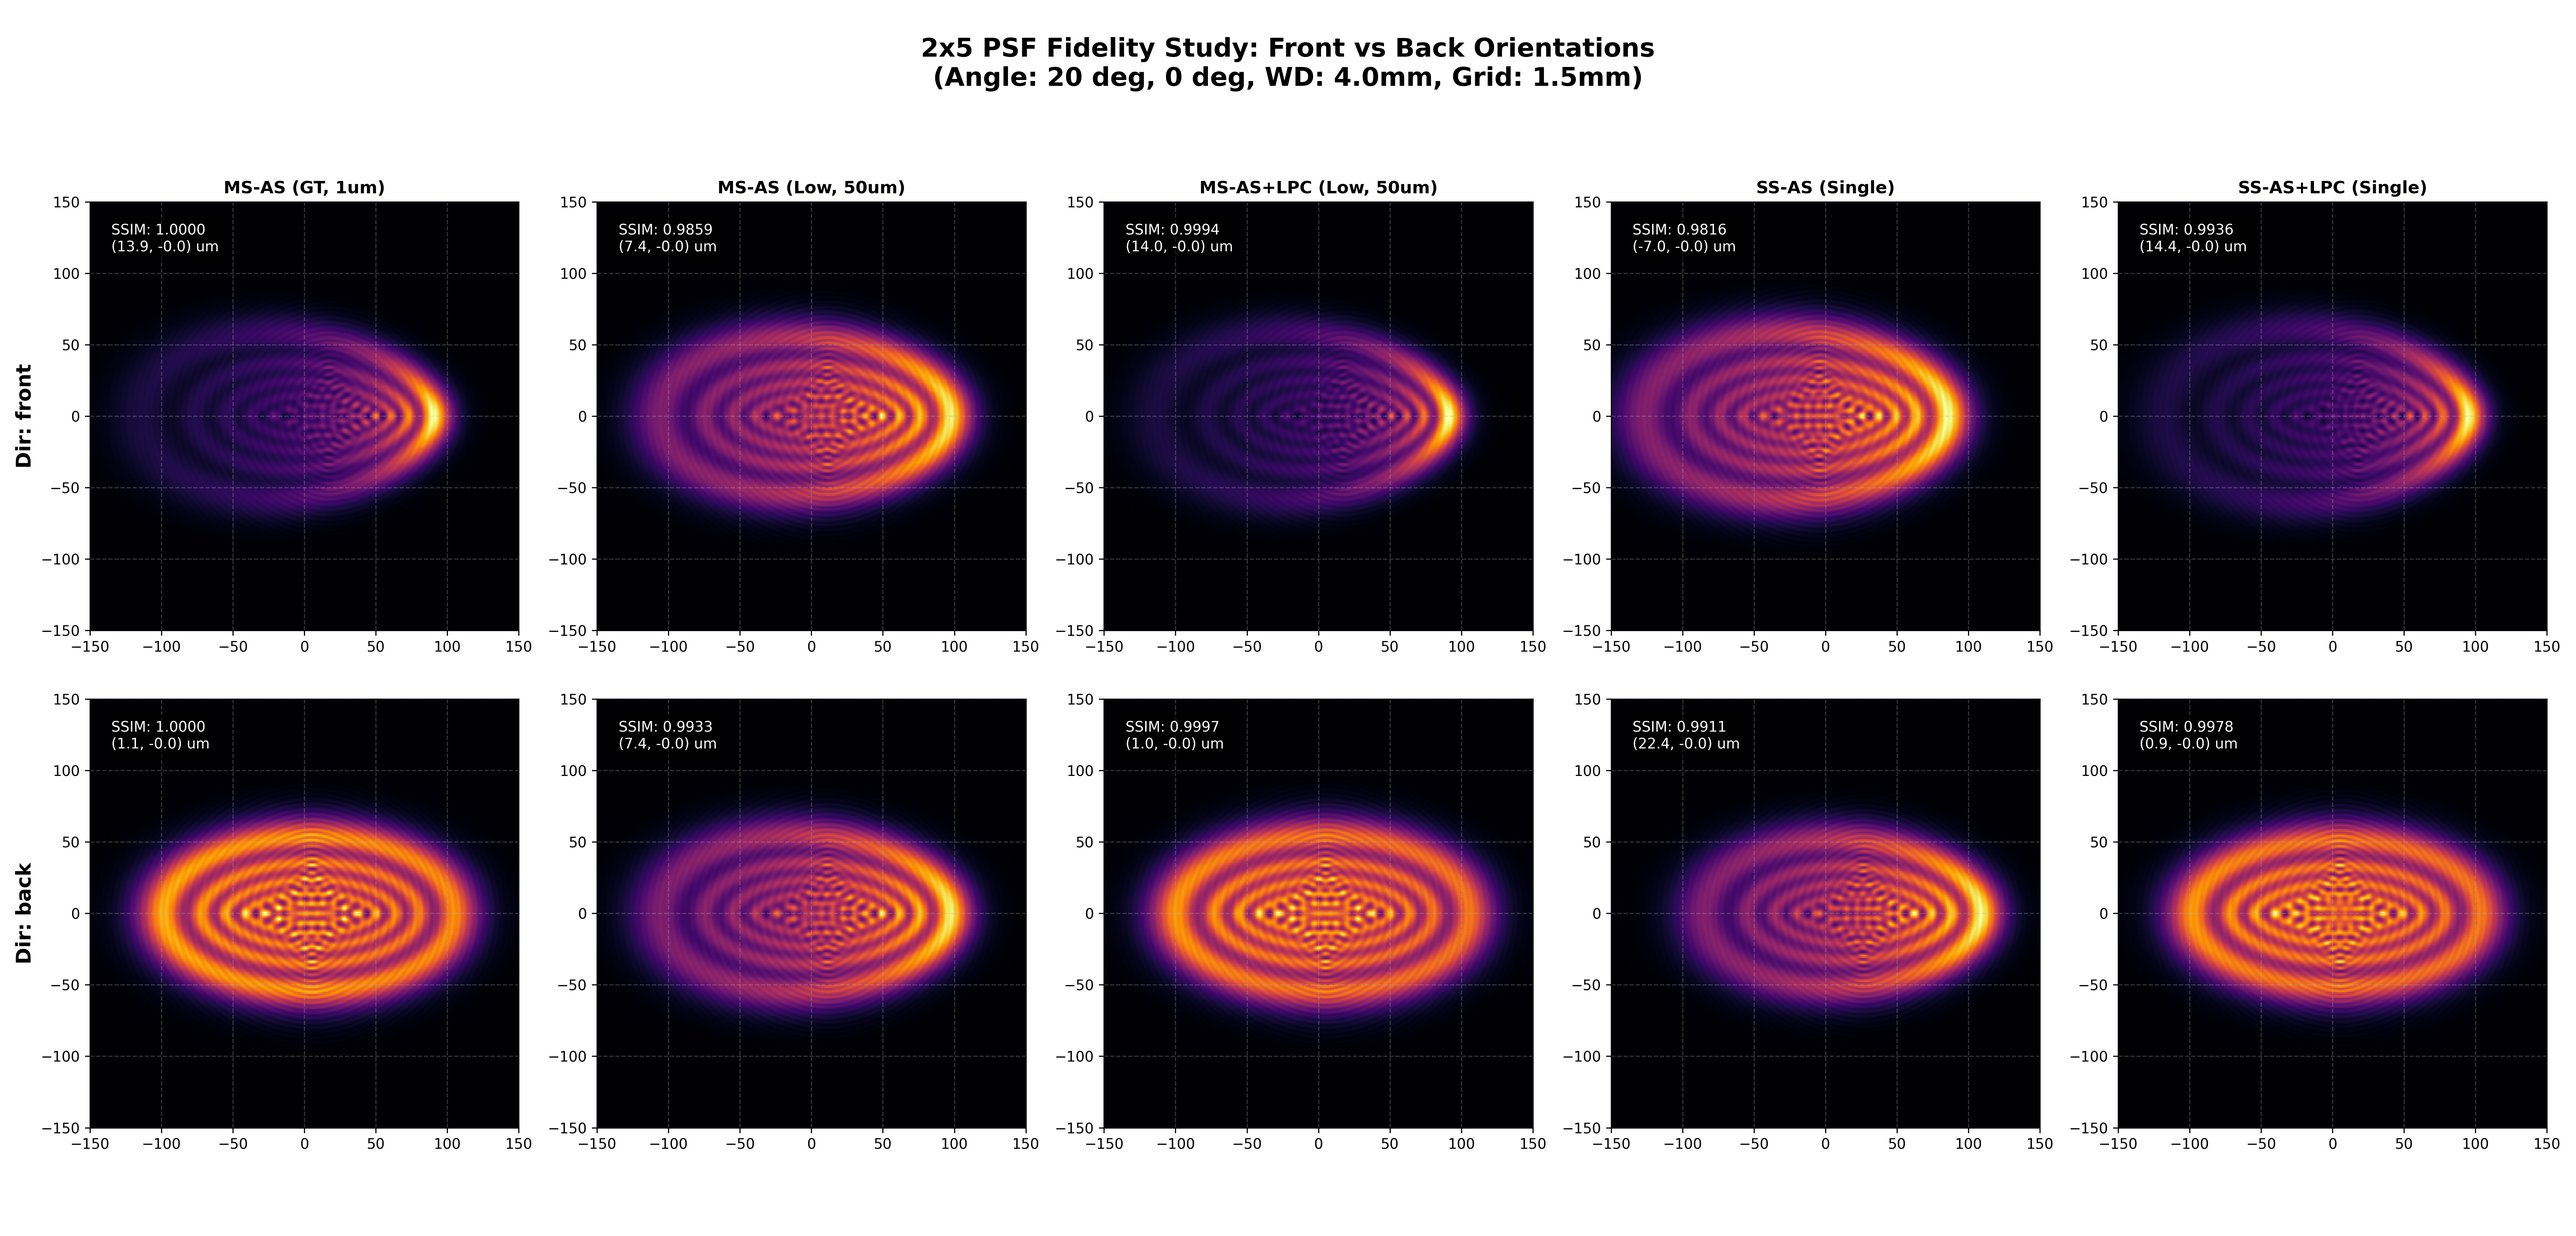
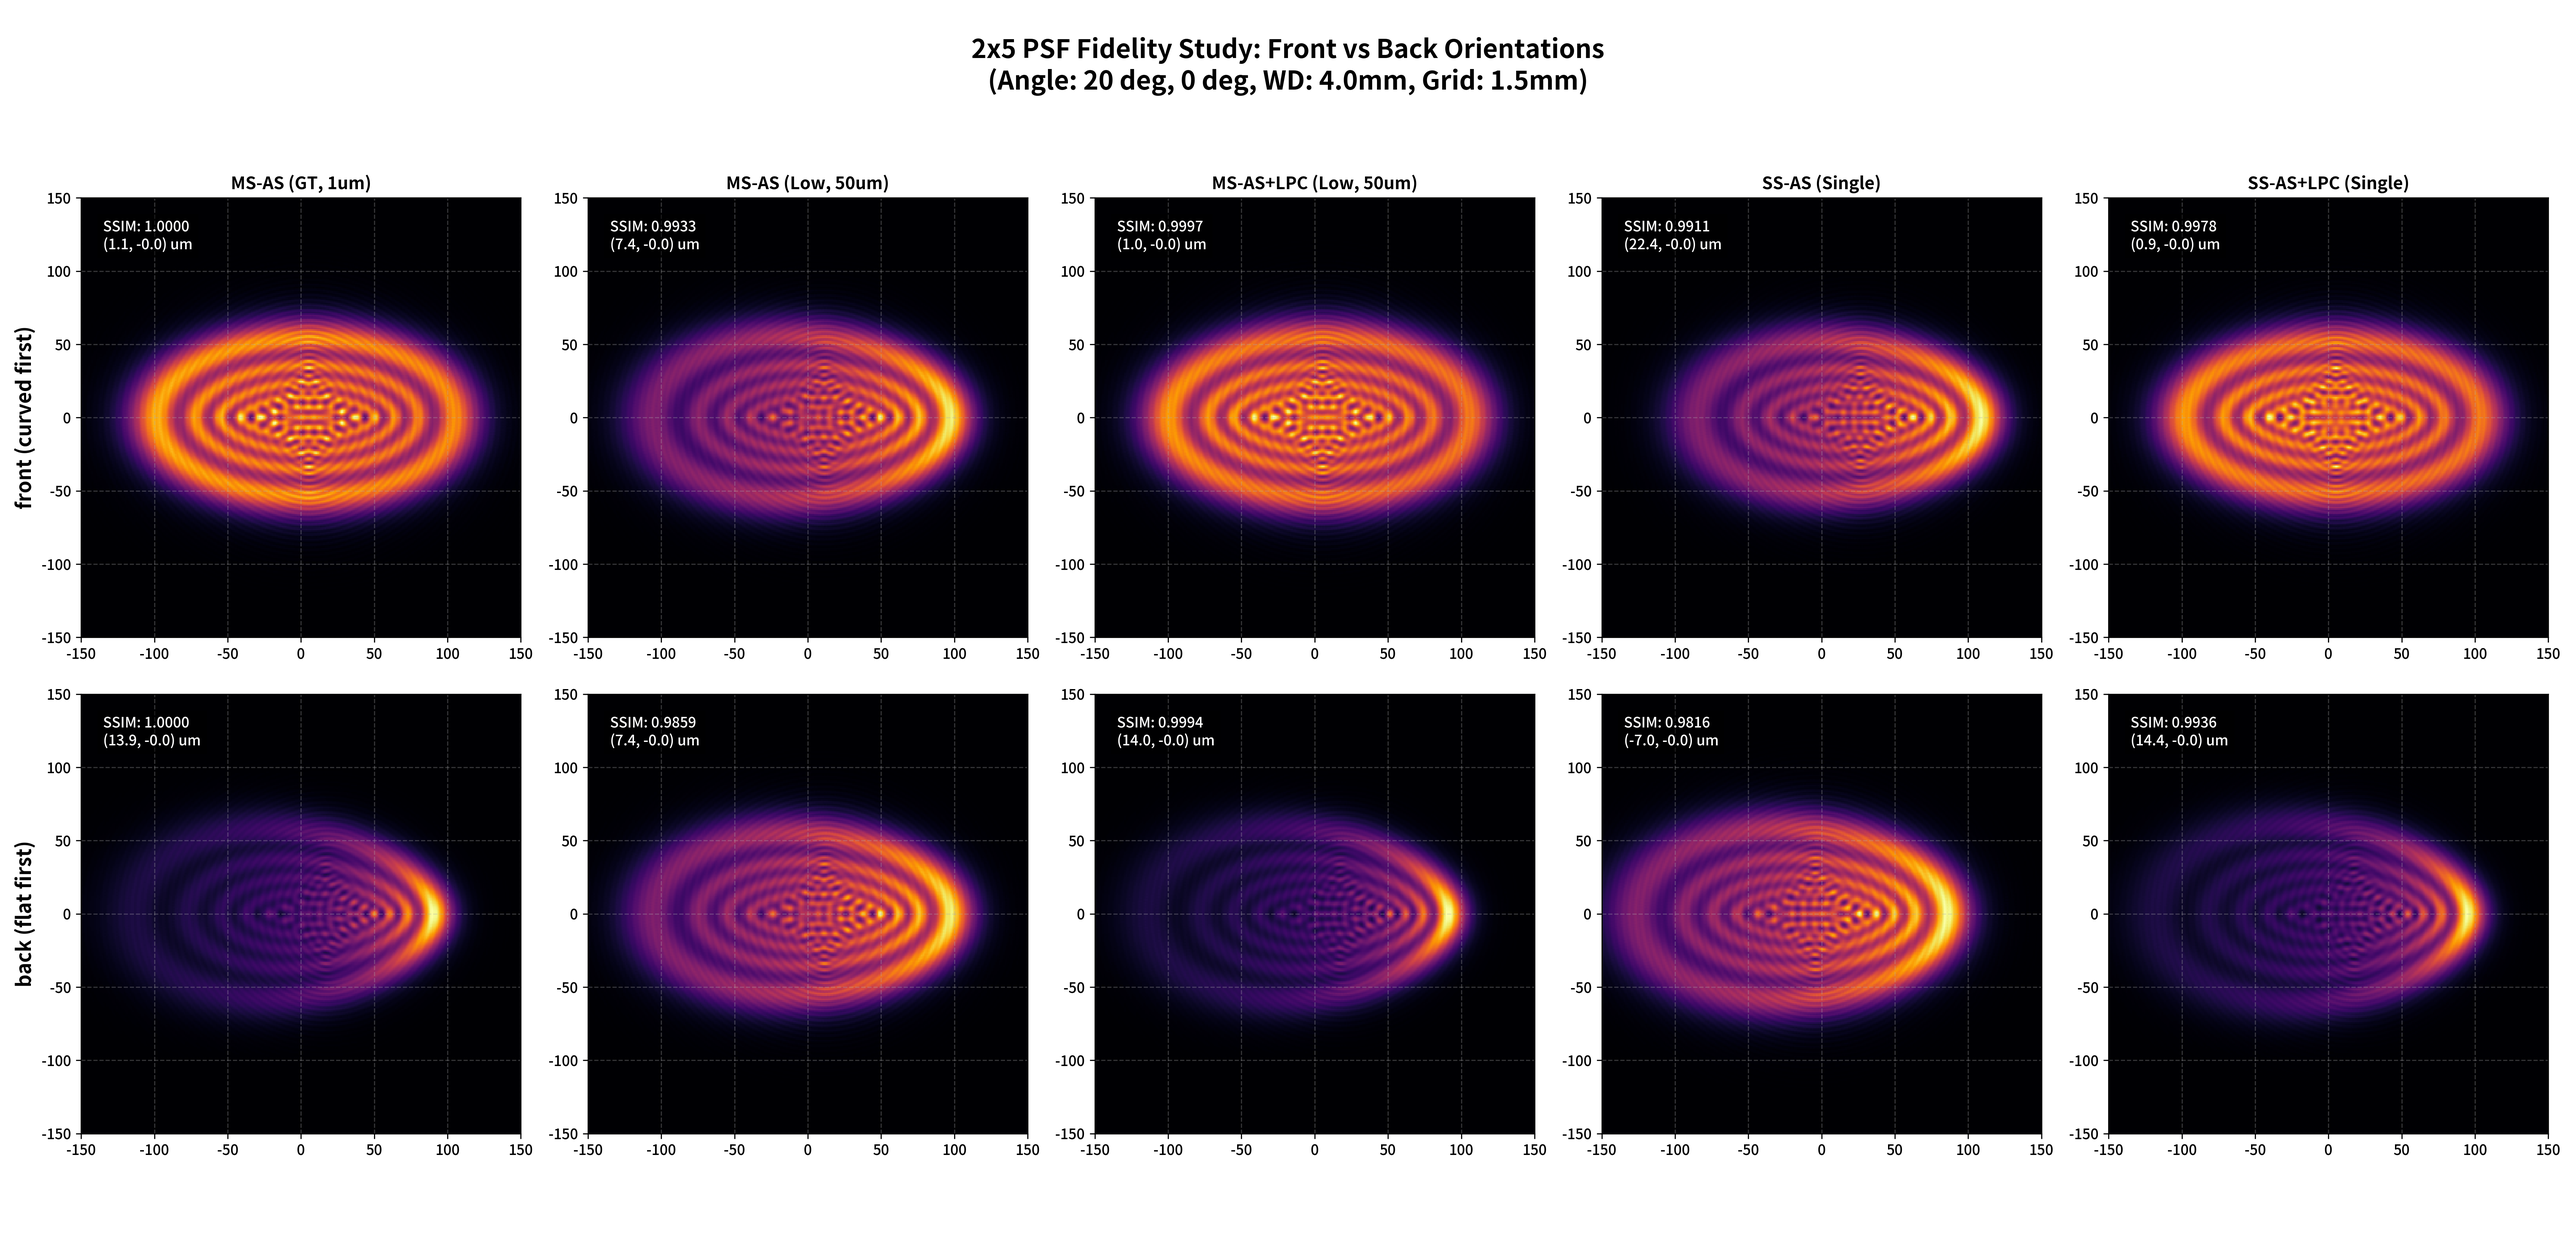
Make 'front' mean curved first in both engines
The README describes 'front' as curved first and 'back' as flat first, but
the heightmap is the thickness from the flat base, so heightmap_slicer
started 'front' at the base slice: the code modelled 'front' as flat first.
A direct field-overlap check on the demo lens (overlap 1.0000 vs 0.91 for
crossed pairs) and the ray-traced focus confirmed the swap.

The engines now follow the README: slice order, mask/propagation order and
the LPC skew sign are swapped together through is_curved_first(), which
also rejects unknown labels. The change is a pure relabel; the new test
checks new('front') == old('back') and vice versa to 1e-6 against the
pre-fix module from git history. The results figure is regenerated (rows
swap, values unchanged), and the README records the convention change, the
validated curvature regime of the single slice, and known limitations.

Changed region(s): [[0.0, 0.1244, 0.9984, 0.5289], [0.0, 0.56, 0.9984, 0.9333], [0.3432, 0.0311, 0.6552, 0.0933]]

diff --git a/optical_demo_utils.py b/optical_demo_utils.py
@@ -42,6 +42,22 @@ def get_asm_kernel(FX, FY, wavelength, dz, n, x_rad=0.0, y_rad=0.0):
     
     return mask * torch.exp(1j * kz * dz)
 
+def is_curved_first(heightmapDirection):
+    """
+    Map the lens orientation label to the physical surface order.
+
+    'front': the curved surface faces the incident light (curved first).
+    'back' : the flat base faces the incident light (flat first).
+
+    The heightmap is the material thickness measured from the flat base, so
+    'front' starts at the apex slice and 'back' starts at the base slice.
+    Before 2026-11-13 the code used the opposite assignment (see README).
+    """
+    direction = str(heightmapDirection).lower()
+    if direction not in ('front', 'back'):
+        raise ValueError(f"heightmapDirection must be 'front' or 'back', got {heightmapDirection!r}")
+    return direction == 'front'
+
 def hard_stable_bounded_clip(x, lower, upper):
     """Hard clipping for slicing stability."""
     max_val = (upper - lower)
@@ -58,7 +74,8 @@ def heightmap_slicer(heightmap, dz_mask, slice_idx, heightmapDirection='front', 
     numSlices = int(torch.ceil(torch.as_tensor(axial_thickness / dz_mask)).item())
     dz_last = axial_thickness - (numSlices - 1) * dz_mask
 
-    idx = slice_idx if heightmapDirection.lower() in ['front'] else numSlices - 1 - slice_idx
+    # Curved first: start at the apex (top) slice; flat first: start at the base slice.
+    idx = numSlices - 1 - slice_idx if is_curved_first(heightmapDirection) else slice_idx
 
     z_start = idx * dz_mask
     z_actual = dz_mask if idx < numSlices - 1 else dz_last
@@ -104,10 +121,10 @@ def local_phase_correction(XX, YY, heightmap, skewXRad_array, skewYRad_array, pi
 
     hm = heightmap.to(device)
     heightmap_batch = hm.view(1, 1, H, W).expand(B, C, H, W)
-    if heightmapDirection.lower() in ['front']:
-        skewX, skewY = -skewXRad_array, -skewYRad_array
-    else:
+    if is_curved_first(heightmapDirection):
         skewX, skewY = skewXRad_array, skewYRad_array
+    else:
+        skewX, skewY = -skewXRad_array, -skewYRad_array
 
     eff_h = (heightmap_batch)
 
@@ -185,6 +202,7 @@ def ms_as_engine(field, h_map, dz_val, k0, n_mat, n_bkgd, FX, FY, XX, YY, px_siz
     device = field.device
     B, C, H, W = field.shape
     wavelength = 2 * torch.pi / k0
+    curved_first = is_curved_first(heightmapDirection)
     
     x_rad = angle_params.get('x_rad', 0.0) if angle_params else 0.0
     y_rad = angle_params.get('y_rad', 0.0) if angle_params else 0.0
@@ -212,18 +230,18 @@ def ms_as_engine(field, h_map, dz_val, k0, n_mat, n_bkgd, FX, FY, XX, YY, px_siz
             
         opd = global_phase_correction(x_rad, y_rad, n_mat, n_bkgd, h_lpc)
         
-        if heightmapDirection.lower() in ['front']:
+        if curved_first:
+            if abs(dz_eff - dz_val) < 1e-12:
+                for _ in range(num_sub): curr_field = propagate_with_cached_kernel(curr_field, H_sub)
+            else:
+                curr_field = propagate(curr_field, wavelength, dz_eff, n_mat, FX, FY, px_size, x_rad=x_rad, y_rad=y_rad)
+            curr_field = curr_field * torch.exp(1j * k0 * opd)
+        else:
             curr_field = curr_field * torch.exp(1j * k0 * opd)
             if abs(dz_eff - dz_val) < 1e-12:
                 for _ in range(num_sub): curr_field = propagate_with_cached_kernel(curr_field, H_sub)
             else:
                 curr_field = propagate(curr_field, wavelength, dz_eff, n_mat, FX, FY, px_size, x_rad=x_rad, y_rad=y_rad)
-        else:
-            if abs(dz_eff - dz_val) < 1e-12:
-                for _ in range(num_sub): curr_field = propagate_with_cached_kernel(curr_field, H_sub)
-            else:
-                curr_field = propagate(curr_field, wavelength, dz_eff, n_mat, FX, FY, px_size, x_rad=x_rad, y_rad=y_rad)
-            curr_field = curr_field * torch.exp(1j * k0 * opd)               
    
     return curr_field
 
@@ -251,12 +269,12 @@ def ss_as_engine(field, h_map, k0, n_mat, n_bkgd, FX, FY, XX, YY, px_size, heigh
     opd = global_phase_correction(x_rad, y_rad, n_mat, n_bkgd, h_lpc)
     mask = torch.exp(1j * k0 * opd)
 
-    if heightmapDirection.lower() in ['front']:
-        curr_field = curr_field * mask
+    if is_curved_first(heightmapDirection):
         curr_field = propagate(curr_field, wavelength, thickness, n_mat, FX, FY, px_size, x_rad=x_rad, y_rad=y_rad)
+        curr_field = curr_field * mask
     else:
-        curr_field = propagate(curr_field, wavelength, thickness, n_mat, FX, FY, px_size, x_rad=x_rad, y_rad=y_rad)
         curr_field = curr_field * mask
+        curr_field = propagate(curr_field, wavelength, thickness, n_mat, FX, FY, px_size, x_rad=x_rad, y_rad=y_rad)
         
     return curr_field
 

diff --git a/tests/test_front_back_labels.py b/tests/test_front_back_labels.py
@@ -1,0 +1,87 @@
+"""Check the 2026-11-13 front/back convention fix.
+
+'front' must mean curved first and 'back' flat first. The fix is a pure
+relabel: the new 'front' reproduces the pre-fix 'back' exactly and vice versa.
+The pre-fix module is read from git (commit 795e325); that part is skipped
+when git or the commit is unavailable.
+
+Run: python -m pytest tests/test_front_back_labels.py
+"""
+import importlib.util
+import subprocess
+import sys
+from pathlib import Path
+
+import numpy as np
+import pytest
+import torch
+
+ROOT = Path(__file__).resolve().parents[1]
+sys.path.insert(0, str(ROOT))
+import optical_demo_utils as new  # noqa: E402
+
+LEGACY_COMMIT = "795e325"
+um = 1e-6
+
+
+def _legacy_module(tmp_path):
+    try:
+        src = subprocess.run(
+            ["git", "-C", str(ROOT), "show", f"{LEGACY_COMMIT}:optical_demo_utils.py"],
+            check=True, capture_output=True, text=True).stdout
+    except (OSError, subprocess.CalledProcessError):
+        pytest.skip("pre-fix module not available from git")
+    path = tmp_path / "legacy_optical_demo_utils.py"
+    path.write_text(src)
+    spec = importlib.util.spec_from_file_location("legacy_optical_demo_utils", path)
+    mod = importlib.util.module_from_spec(spec)
+    spec.loader.exec_module(mod)
+    return mod
+
+
+def _setup(n=192, px=1.0 * um, dia=160 * um, roc=300 * um, thick=20 * um, angle_deg=10.0):
+    XX, YY, FX, FY = new.get_grids(n, n, px, "cpu")
+    RR = torch.sqrt(XX**2 + YY**2)
+    field = (RR <= 0.35 * dia).float()[None, None].to(torch.complex64)
+    sag = roc - torch.sqrt(torch.clamp(roc**2 - RR**2, min=0.0))
+    h_map = (thick - sag) * (RR <= 0.5 * dia).float()
+    h_map = h_map - h_map.min()
+    angle = {"x_rad": float(np.deg2rad(angle_deg)), "y_rad": float(np.deg2rad(0.5 * angle_deg))}
+    return dict(XX=XX, YY=YY, FX=FX, FY=FY, field=field, h_map=h_map, px=px, angle=angle,
+                k0=2 * np.pi / (0.55 * um))
+
+
+def _run(mod, g, method, direction):
+    lpc = {} if "LPC" in method else None
+    if method.startswith("MS"):
+        return mod.ms_as_engine(g["field"], g["h_map"], 5 * um, g["k0"], 1.54, 1.0, g["FX"], g["FY"],
+                                g["XX"], g["YY"], g["px"], heightmapDirection=direction,
+                                lpc_params=lpc, angle_params=g["angle"])
+    return mod.ss_as_engine(g["field"], g["h_map"], g["k0"], 1.54, 1.0, g["FX"], g["FY"],
+                            g["XX"], g["YY"], g["px"], heightmapDirection=direction,
+                            lpc_params=lpc, angle_params=g["angle"])
+
+
+@pytest.mark.parametrize("method", ["MS", "MS+LPC", "SS", "SS+LPC"])
+def test_new_labels_are_swapped_legacy_labels(tmp_path, method):
+    legacy = _legacy_module(tmp_path)
+    g = _setup()
+    for new_dir, old_dir in (("front", "back"), ("back", "front")):
+        a = _run(new, g, method, new_dir)
+        b = _run(legacy, g, method, old_dir)
+        rel = (torch.linalg.vector_norm(a - b) / torch.linalg.vector_norm(b)).item()
+        assert rel < 1e-6, (method, new_dir, rel)
+
+
+def test_front_starts_at_apex_slice():
+    g = _setup()
+    dz = 5 * um
+    first_front, _ = new.heightmap_slicer(g["h_map"], dz, 0, "front")
+    first_back, _ = new.heightmap_slicer(g["h_map"], dz, 0, "back")
+    # The apex slice has the smallest footprint, the base slice the largest.
+    assert (first_front > 0).sum() < (first_back > 0).sum()
+
+
+def test_unknown_direction_is_rejected():
+    with pytest.raises(ValueError):
+        new.is_curved_first("curved")

diff --git a/optical_demo_main.py b/optical_demo_main.py
@@ -183,7 +183,8 @@ for col_idx, (name, _) in enumerate(methods):
         
         m_score = metrics[key]
         if col_idx == 0:
-            ax.set_ylabel(f"Dir: {d}", fontsize=14, fontweight='bold')
+            orientation = "curved first" if d == "front" else "flat first"
+            ax.set_ylabel(f"{d} ({orientation})", fontsize=14, fontweight='bold')
         
         if row_idx == 0:
             ax.set_title(f"{name}", fontsize=12, fontweight='bold')

diff --git a/README.md b/README.md
@@ -21,6 +21,30 @@ Traditional single-step ASM often suffers from numerical instability and phase e
 - **Quantitative Metrics**: Integrated MS-SSIM and Centroid (µm) calculation for quantitative fidelity verification.
 
 
+##  Lens Orientation Convention
+
+The heightmap is the material thickness measured from the flat base of the lens.
+
+- `heightmapDirection='front'`: the curved surface faces the incident light (curved first). Multi-slice propagation starts at the apex slice.
+- `heightmapDirection='back'`: the flat base faces the incident light (flat first). Multi-slice propagation starts at the base slice.
+
+**Convention change (2026-11-13).** Earlier versions of this code assigned the labels the other way round: `'front'` sliced from the base (flat first) and `'back'` from the apex (curved first), although this README already described `'front'` as curved first. The engines now follow the README. To reproduce results produced with the earlier code, swap `'front'` and `'back'`. The results figure was regenerated with the corrected labels; its rows therefore swap places compared with the earlier figure.
+
+##  Validated Regime and Known Limitations
+
+- **Single-slice accuracy depends on surface curvature.** On the demo lens (ROC 2 mm, thickness 100 µm), SS-AS+LPC tracks the multi-slice reference closely (20° centroid within about 0.4 µm, focus within the depth of focus). On a strongly curved microlens (ROC about 305 µm, sag 22.5 µm), the curved-first single slice differs from multi-slice by 13–32% in near-focus intensity on a small detector. Use the multi-slice engine for strongly curved surfaces.
+- `get_grids` builds the spatial grid with `linspace(-L/2, L/2, N)`, a spacing of L/(N-1), while the frequency grid assumes a spacing of `PxSize`.
+- The ASM kernel has no band limit.
+- GPC uses a single global plane-wave angle for the whole aperture.
+
+##  Testing
+
+```bash
+python -m pytest tests/
+```
+
+The test checks that the orientation fix is a pure relabel of the earlier code (read from git history) and that `'front'` starts at the apex slice.
+
 ##  Requirements
 
 The simulation is built using **PyTorch** for GPU acceleration and automatic differentiation compatibility.
